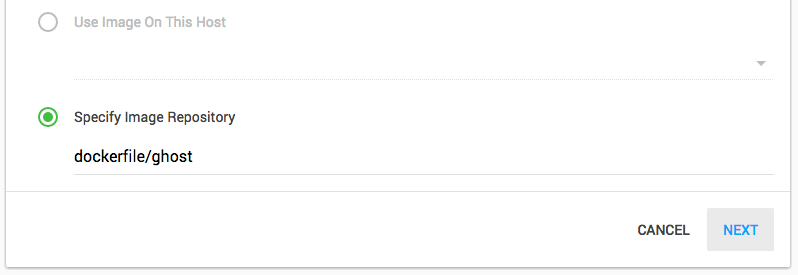
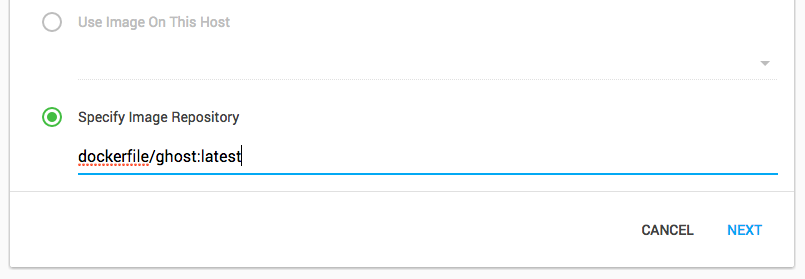
Updated Ghost guide, not yet finished

diff --git a/_includes/head.html b/_includes/head.html
@@ -7,7 +7,7 @@
   <meta content='Nitrous Support Documentation. Tutorials, FAQ, and other guides for building your apps directly on Nitrous' name='description'>
   <meta content='Nitrous' name='author'>
 
-  <link href='http://fonts.googleapis.com/css?family=Open+Sans:300italic,300,600italic,600' rel='stylesheet' type='text/css'>
+  <link href='https://fonts.googleapis.com/css?family=Open+Sans:300italic,300,600italic,600' rel='stylesheet' type='text/css'>
 
   <link rel='stylesheet' href='{{site.baseurl}}/css/bootstrap3/css/bootstrap.css'>
   <link href="//netdna.bootstrapcdn.com/font-awesome/4.0.3/css/font-awesome.css" rel="stylesheet">

diff --git a/_includes/search-head.html b/_includes/search-head.html
@@ -7,7 +7,7 @@
   <meta content='Nitrous Support Documentation. Tutorials, FAQ, and other guides for building your apps directly on Nitrous' name='description'>
   <meta content='Nitrous' name='author'>
 
-  <link href='http://fonts.googleapis.com/css?family=Open+Sans:300italic,300,600italic,600' rel='stylesheet' type='text/css'>
+  <link href='https://fonts.googleapis.com/css?family=Open+Sans:300italic,300,600italic,600' rel='stylesheet' type='text/css'>
 
   <link rel='stylesheet' href='{{site.baseurl}}/css/bootstrap3/css/bootstrap.css'>
   <link href="//netdna.bootstrapcdn.com/font-awesome/4.0.3/css/font-awesome.css" rel="stylesheet">

diff --git a/_posts/2014-11-11-ghost-blog.md b/_posts/2014-11-11-ghost-blog.md
@@ -16,21 +16,28 @@ category: tutorials
 
 ## Create a Host
 
-[Login](https://pro.nitrous.io/#/login) to your Nitrous account and select **New > Host** from the menu.
+[Login](https://pro.nitrous.io/#/login) to your Nitrous account and select **New > Host** from the menu. For this example a nano sized host will work.
 
-![New Host]({{site.baseurl}}/images/articles/getting-started/new-host.png)
+![New Host]({{site.baseurl}}/images/articles/ghost/ghost-host.png)
 
-Give your host a name, and select a size (for this example you can select Nano). From there, select **Create** and your new host will be created in a moment.
+After configuring your host, select **Create** and your new host will be available in a moment.
 
 ## Create a Container
 
-* Within a Host you can create multiple containers. A container could be your development environment, a database service, or any repository found within the [Docker Hub Registry](https://registry.hub.docker.com/).*
+*Within a Host you can create multiple containers. A container could be your development environment, a database service, or any repository found within the [Docker Hub Registry](https://registry.hub.docker.com/).*
 
-Navigate to **New > Container** within the menubar. From there title your container  with a name of your choice.  Under the **Image** field, type `dockerfile/ghost` within the "Specify Image Repository" field.
+Navigate to **New > Container** within the menu. Give your container a name such as "Ghost", and under the **Image** field enter `dockerfile/ghost:latest` within the "Specify Image Repository" field.
 
-![Specify Image Reposity]({{site.baseurl}}/images/articles/getting-started/specify-image.png)
+![Specify Image Reposity]({{site.baseurl}}/images/articles/ghost/specify-image.png)
+
+Click next to go to step 2. Within this step we will need to add port bindings. Within the Port Bindings section, add the following public port:
+
+* Host Port: 80
+* Container Port: 2368
+
+![Specify Image Reposity]({{site.baseurl}}/images/articles/ghost/port-binding.png)
+
+Click **Create** and Nitrous will pull the latest Ghost image with your configurations.
 
 ## 
-
-
 
